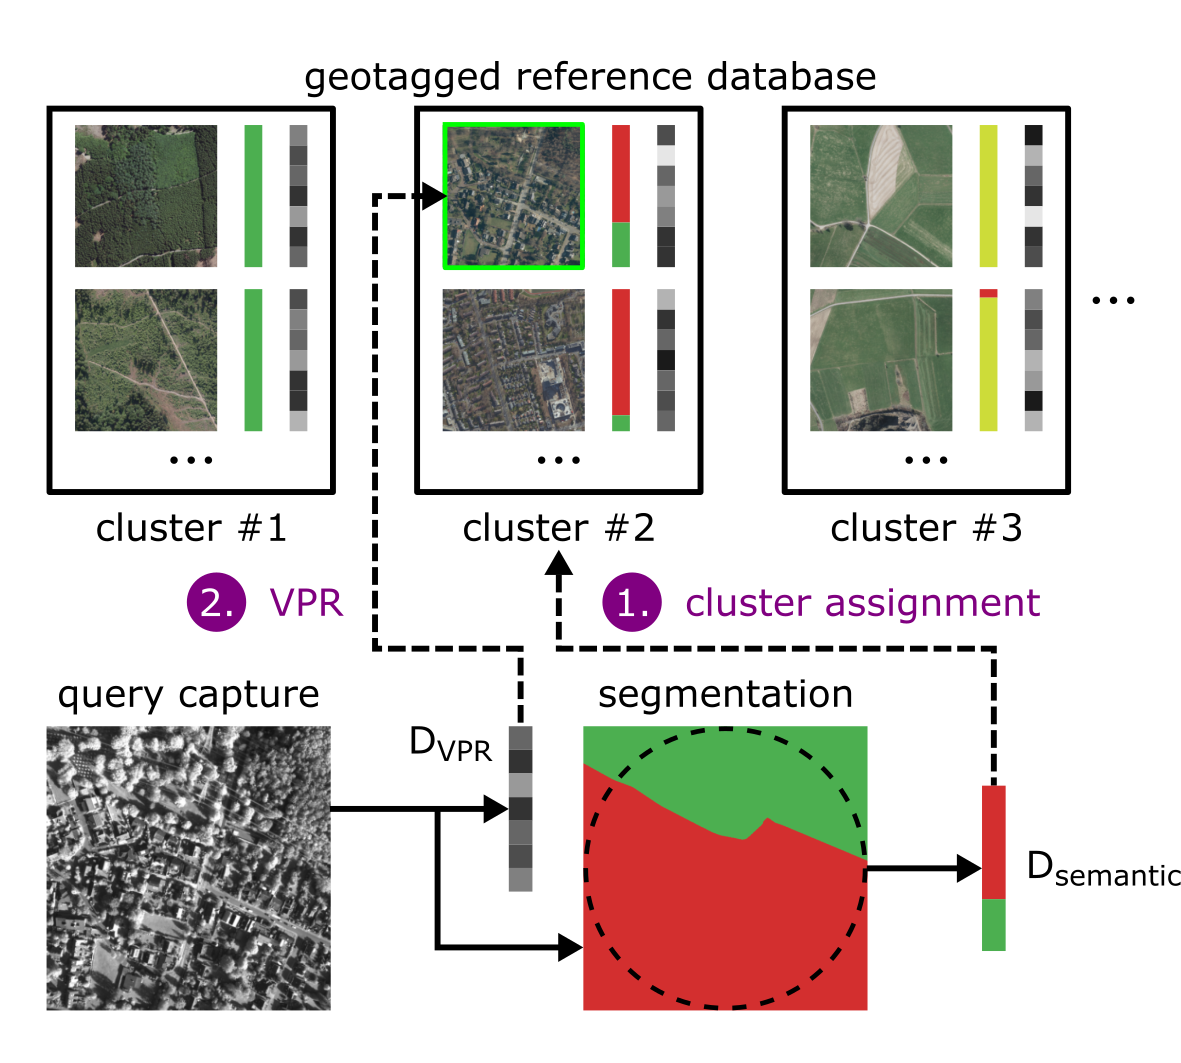
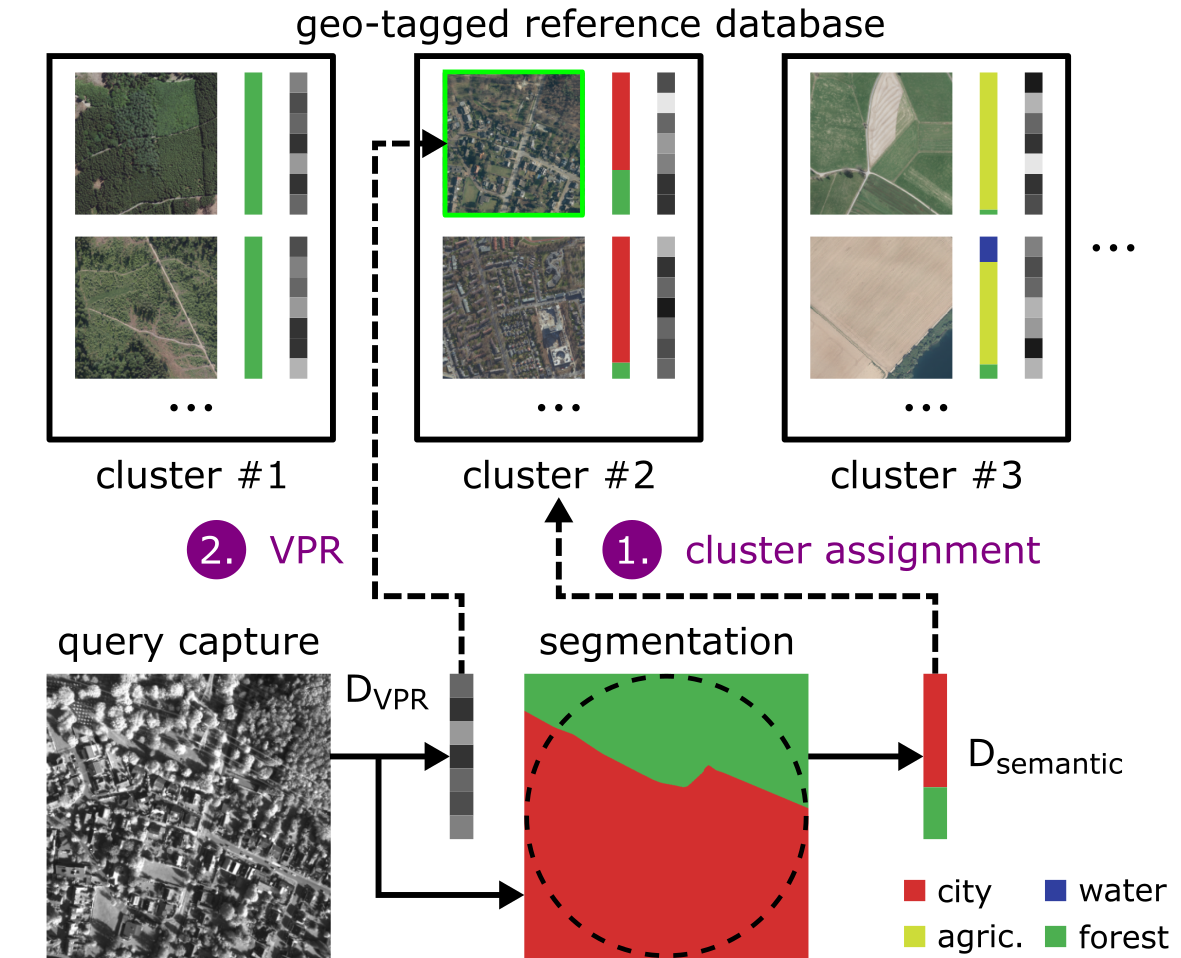
typos + new graphic

diff --git a/README.md b/README.md
@@ -1,6 +1,6 @@
 # Semantic Clustering for Visual Localization
 
-This repository contains the *anonymized* code for WACV 2025 submission *Semantic Clustering of Image Retrieval Databases used for Visual Localization*. The code can be used to adapt the procedure to other datasets and to reproduce our results after publishing the entire 4Seasons dataset. The individual submodules that realize the individual components of our pipeline are collected here.
+This repository contains the **anonymized** code for WACV 2025 submission *Semantic Clustering of Image Retrieval Databases used for Visual Localization*. The code can be used to adapt the procedure to other datasets and to reproduce our results after publishing the entire 4 Seasons dataset. The individual submodules that realize the individual components of our pipeline are collected here.
 
 <p align="center">
     <img src="content/overview.png" alt="drawing" width="400"/>
@@ -8,7 +8,7 @@ This repository contains the *anonymized* code for WACV 2025 submission *Semanti
 
 ## Visual Place Recognition
 
-In our experiments, we resort to [NetVlad](https://arxiv.org/abs/1511.07247) to learn VPR descriptors which form a image retrieval database. For implementation, we used [Nanne's repository](https://github.com/Nanne/pytorch-NetVlad), which we adapted to our dataset and managed in `pytorch-NetVlad`.
+In our experiments, we use [NetVlad](https://arxiv.org/abs/1511.07247) to learn VPR descriptors which form a image retrieval database. For implementation, we used [this repository](https://github.com/Nanne/pytorch-NetVlad), which we adapted to our dataset and managed in `pytorch-NetVlad`.
 
 ## Semantic Clustering
 
@@ -16,4 +16,4 @@ For semantic clustering we used a script for learning (semantic) clusters based 
 
 ## Semantic Segmentation
 
-Results of semantic segmentation are used as input for semantic clustering. For this, we trained a model that segments aerial captures in grayscale into basic forms of land cover. Our code for this is managed in sem-training`.
+Results of semantic segmentation are used as input for semantic clustering. For this, we trained a model that segments aerial captures in grayscale into basic forms of land cover. Our code for this is managed in `sem-training`.
